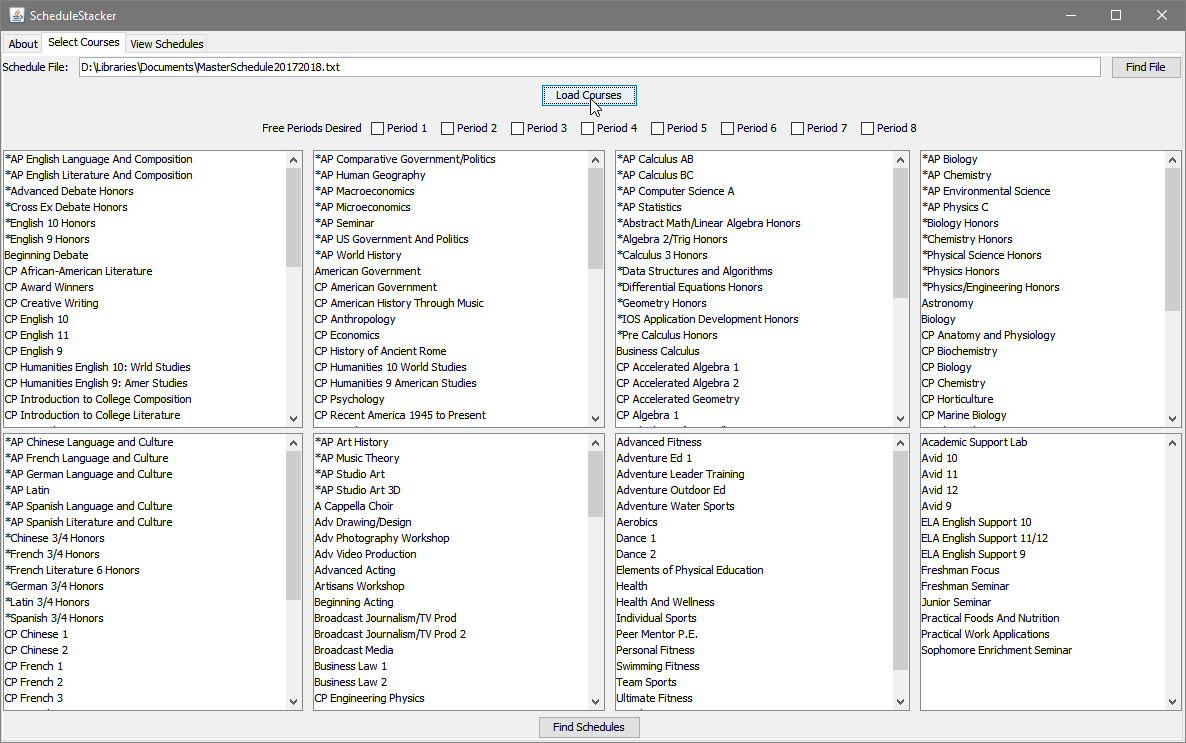
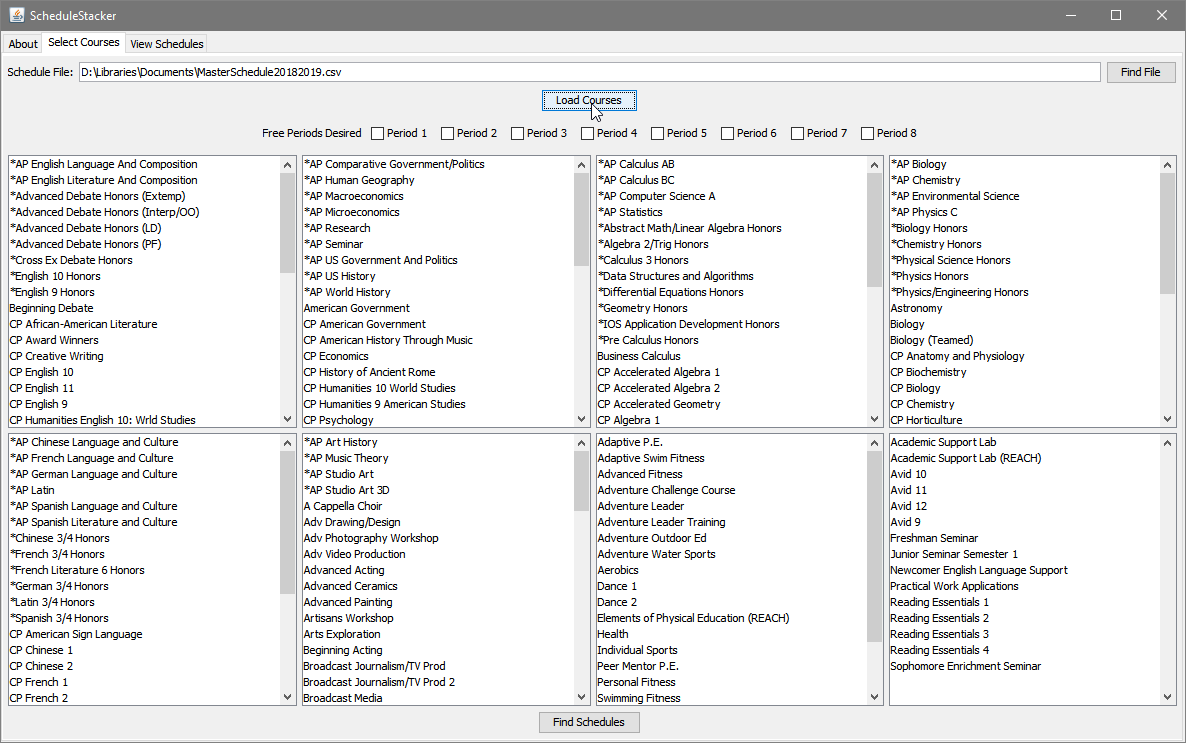
Update for v1.1.0, add analytics

diff --git a/index.md b/index.md
@@ -3,33 +3,34 @@ layout: page
 title: ScheduleStacker
 ---
 
-ScheduleStacker is tool for finding all permutations of course schedules to aid in the self-registration process.
+ScheduleStacker is tool for finding all permutations of course schedules to aid in the self-registration process.  
+Tell your friends! Tell everyone!!
 
 ### Downloads
 
-#### Latest (v1.0.0)
+#### Latest (v1.1.0)
 
-ScheduleStacker: [v1.0.0](https://github.com/Coreball/ScheduleStacker/releases/download/v1.0.0/ScheduleStacker_v1.0.0.jar)
-
-Master Schedule: [2017-2018](https://github.com/Coreball/ScheduleStacker/releases/download/v1.0.0/MasterSchedule20172018.txt)
+ScheduleStacker: [v1.1.0](https://github.com/Coreball/ScheduleStacker/releases/download/v1.1.0/ScheduleStacker_v1.1.0.jar)  
+Master Schedule: [2018-2019 CSV](https://github.com/Coreball/ScheduleStacker/releases/download/v1.1.0/MasterSchedule20182019.csv)
 
 #### Older Versions
 
-There are none
+ScheduleStacker: [v1.0.0](https://github.com/Coreball/ScheduleStacker/releases/download/v1.0.0/ScheduleStacker_v1.0.0.jar)  
+Master Schedule: [2017-2018 CSV](https://github.com/Coreball/ScheduleStacker/releases/download/v1.0.0/MasterSchedule20172018.csv)  
+Master Schedule: [2017-2018 TXT](https://github.com/Coreball/ScheduleStacker/releases/download/v1.0.0/MasterSchedule20172018.txt)
 
 
 ### Usage
 
-
-1. Navigate to the "Select Courses" tab and select a file containing the readable master schedule (will have download for this, it is NOT the PDF on the school website) and load it.
+1. Navigate to the "Select Courses" tab and select the file containing the readable Master Schedule CSV and load it.
 ![Step 1](images/1.png)
-2. Select your desired off periods. These are the off periods that you _like, totally need_. Depending on your situation, this could either be just your lunch period or your lunch period and another off that you'd like. If you have a one-and-a-half period class like AP Biology, do not treat the half period as a desired off period.
+2. Select your desired off periods. These are the off periods that you _like, totally need_. Depending on your situation, this could either be just your lunch period or your lunch period and another off that you'd like. If you have a one-and-a-half period class like AP Biology, do not treat the half period as a desired off period. If you select fewer off periods than the maximum possible, like if you only selected Period 5 but you have space for two off periods, the program will wildcard the remaining off periods.
 ![Step 2](images/2.png)
 3. Select your desired courses. CTRL-Click to select multiple in the same category or to deselect a course.
 ![Step 3](images/3.png)
 4. Press "Find Schedules" to generate the schedules.
 ![Step 4](images/4.png)
-5. Switch to "View Schedules" and deeply analyze your future
+5. Switch to "View Schedules" and explore the choices available to you. The details pane contains information including the teacher's full name and the classroom location.
 ![Step 5](images/5.png)
 
 

diff --git a/README.md b/README.md
@@ -1,3 +1,3 @@
 # ScheduleStacker Website
 
-I seem to have forgotten a lot of HTML
+https://coreball.github.io/ScheduleStacker/
